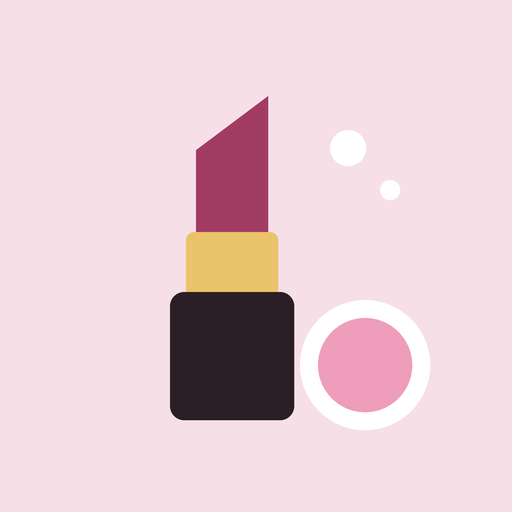
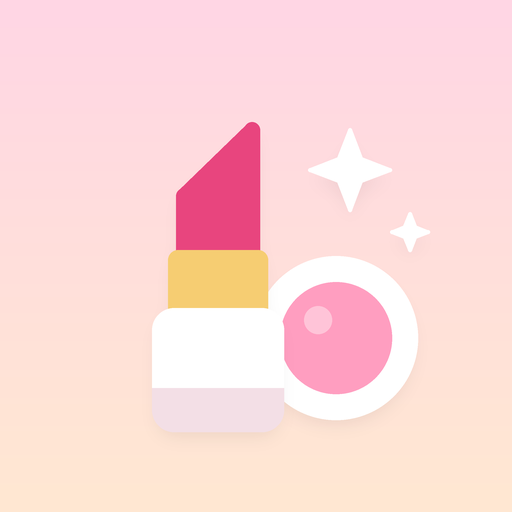
换新图标：桌面图标重画，每个类别配一个小图标
类别图标在 icons.js 里，录入时的类别改成带图标的格子；没照片的卡片显示类别图标。
顺带修掉录入表单里拍照区域会被压扁的问题。

Changed region(s): [[0.2812, 0.1875, 0.8438, 0.875], [0.5938, 0.25, 0.7812, 0.4062], [0.75, 0.4062, 0.8438, 0.5]]

diff --git a/index.html b/index.html
@@ -19,6 +19,7 @@
 <script src="https://www.gstatic.com/firebasejs/10.12.2/firebase-firestore-compat.js"></script>
 <script src="config.js"></script>
 <script src="kind.js"></script>
+<script src="icons.js"></script>
 <style>
 /* 和东阳303同一套骨架：手机单列、底部分页、底部弹出面板。只有这一段颜色和 kind.js 跟另一个 app 不一样。 */
 :root{
@@ -59,6 +60,17 @@ button:focus-visible,input:focus-visible,select:focus-visible,textarea:focus-vis
 .chips{display:flex;gap:6px;flex-wrap:wrap}
 .chip{border:1px solid var(--line);background:var(--surface);border-radius:999px;padding:4px 11px;font-size:13px}
 .chip[aria-pressed="true"]{background:var(--accent);color:var(--on-accent);border-color:var(--accent)}
+.ci{display:inline-grid;place-items:center;width:22px;height:22px;border-radius:50%;background:hsl(var(--h) 75% 91%);color:hsl(var(--h) 48% 40%);flex:none;vertical-align:middle}
+.ci svg{width:72%;height:72%;fill:none;stroke:currentColor;stroke-width:1.6;stroke-linecap:round;stroke-linejoin:round}
+.ci .f{fill:currentColor;fill-opacity:.22}.ci .s{fill:currentColor;stroke:none}
+.ci.lg{width:40px;height:40px}.ci.xl{width:60px;height:60px}
+@media (prefers-color-scheme: dark){:root:not([data-theme="light"]) .ci{background:hsl(var(--h) 30% 26%);color:hsl(var(--h) 65% 80%)}}
+:root[data-theme="dark"] .ci{background:hsl(var(--h) 30% 26%);color:hsl(var(--h) 65% 80%)}
+.chip .ci{width:20px;height:20px;margin:-3px 4px -1px -6px}
+.cats{display:grid;grid-template-columns:repeat(auto-fill,minmax(66px,1fr));gap:4px}
+.chip.cat{border:1.5px solid transparent;background:none;border-radius:12px;padding:6px 2px;display:flex;flex-direction:column;align-items:center;gap:4px;font-size:11px;line-height:1.25;color:var(--fg);text-align:center;overflow-wrap:anywhere}
+.chip.cat .ci{margin:0;width:40px;height:40px}
+.chip.cat[aria-pressed="true"]{border-color:var(--accent);background:var(--accent-soft);color:var(--fg);font-weight:600}
 .strip{display:flex;gap:10px;overflow-x:auto;padding-bottom:4px;scrollbar-width:thin}
 .strip .card{flex:0 0 108px}
 .grid{display:grid;grid-template-columns:repeat(auto-fill,minmax(104px,1fr));gap:10px}
@@ -88,6 +100,7 @@ label.f,.f{display:flex;flex-direction:column;gap:6px;font-size:13px;color:var(-
 .fab{position:fixed;right:18px;bottom:calc(76px + env(safe-area-inset-bottom,0px));z-index:6;background:var(--accent);color:var(--on-accent);border:0;border-radius:999px;padding:12px 18px;font-weight:700;font-size:15px;box-shadow:0 6px 18px rgba(20,30,60,.25)}
 .sheet-bg{position:fixed;inset:0;background:rgba(10,14,25,.45);z-index:10;display:flex;align-items:flex-end;justify-content:center}
 .sheet{background:var(--bg);width:100%;max-width:640px;max-height:92%;overflow-y:auto;border-radius:18px 18px 0 0;padding-inline:16px;padding-block:14px calc(20px + env(safe-area-inset-bottom,0px));display:flex;flex-direction:column;gap:14px}
+.sheet>*{flex-shrink:0}
 .grab{width:40px;height:4px;border-radius:2px;background:var(--line);margin:0 auto}
 .photo-pick{position:relative;aspect-ratio:4/3;max-width:100%;border:1.5px dashed var(--line);border-radius:var(--r);background:var(--surface);display:grid;place-items:center;overflow:hidden;color:var(--muted);text-align:center;padding:0;width:100%}
 .photo-pick img{width:100%;height:100%;object-fit:contain}
@@ -117,6 +130,7 @@ label.f,.f{display:flex;flex-direction:column;gap:6px;font-size:13px;color:var(-
 .cat-head b{font-size:14px}
 .stock{display:grid;grid-template-columns:auto 1fr auto;gap:10px;align-items:center;padding:8px 10px;background:var(--surface);border:1px solid var(--line);border-radius:10px}
 .stock .mini{width:42px;height:42px;border-radius:8px;border:0;padding:0;overflow:hidden;background:var(--surface-2);color:var(--muted);font-size:10px}
+.stock .mini .ci{width:100%;height:100%;border-radius:0}
 .stock .mini img{width:100%;height:100%;object-fit:cover;display:block}
 .stock .txt{min-width:0}
 .stock b{font-size:14px;display:block;white-space:nowrap;overflow:hidden;text-overflow:ellipsis}
@@ -213,6 +227,7 @@ const fromYmd = s => {const [y,m,d]=s.split("-").map(Number);return new Date(y,m
 const dateText = ms => new Date(ms).toLocaleDateString("zh-CN");
 function addMonths(ms,n){const d=new Date(ms);d.setHours(0,0,0,0);d.setMonth(d.getMonth()+n);return d.getTime()}
 
+const catIcon = (c,size="") => {const d=(window.CAT_ICONS||{})[c];return d?`<span class="ci ${size}" style="--h:${d[0]}" aria-hidden="true"><svg viewBox="0 0 24 24">${d[1]}</svg></span>`:""};
 const locById = id => S.locs.find(l=>l.id===id);
 const locName = id => { if(!id) return "待整理"; const l=locById(id); return l?l.name:"待整理"; };
 const locLabel = l => (l.code?l.code+"  ":"")+l.name;
@@ -242,7 +257,7 @@ function cardHTML(i,opts={}){
   const n=daysLeft(i);
   const badge=n!=null&&n<0&&i.status!=="gone"?`<span class="badge late">过期</span>`:!isOpen(i)?`<span class="badge">囤 ×${qtyOf(i)}</span>`:"";
   return `<button class="card${opts.sel?" sel":""}" type="button" data-item="${esc(i.id)}"${opts.selectable?' data-pick="1"':""}>
-    <div class="ph">${i.thumb?`<img src="${i.thumb}" alt="" loading="lazy">`:"无照片"}</div>
+    <div class="ph">${i.thumb?`<img src="${i.thumb}" alt="" loading="lazy">`:(catIcon(i.cat,"xl")||"无照片")}</div>
     <div class="meta"><b>${esc(itemTitle(i))}</b><span>${esc(opts.sub ?? locName(i.loc))}</span></div>
     ${opts.selectable?`<span class="check">${opts.sel?"✓":""}</span>`:badge}
   </button>`;
@@ -325,7 +340,7 @@ function homeHTML(){
   const usedCats=CATS.map(c=>c[0]).filter(c=>items.some(i=>i.cat===c));
   const usedLocs=S.locs.filter(l=>items.some(i=>i.loc===l.id));
   h+=`<section><h2>全部</h2>
-    <div class="chips" data-f="fCat"><button class="chip" type="button" data-v="" aria-pressed="${!S.fCat}">全部</button>${usedCats.map(c=>`<button class="chip" type="button" data-v="${esc(c)}" aria-pressed="${S.fCat===c}">${esc(c)}</button>`).join("")}</div>
+    <div class="chips" data-f="fCat"><button class="chip" type="button" data-v="" aria-pressed="${!S.fCat}">全部</button>${usedCats.map(c=>`<button class="chip" type="button" data-v="${esc(c)}" aria-pressed="${S.fCat===c}">${catIcon(c)}${esc(c)}</button>`).join("")}</div>
     <div class="row"><div class="chips" data-f="fState">${Object.entries(STATES).map(([k,n])=>`<button class="chip" type="button" data-v="${k}" aria-pressed="${S.fState===k}">${n}</button>`).join("")}</div>
     <select id="fLoc" style="width:auto;flex:1;min-width:9em"><option value="">所有位置</option><option value="_none" ${S.fLoc==="_none"?"selected":""}>待整理</option>${usedLocs.map(l=>`<option value="${esc(l.id)}" ${S.fLoc===l.id?"selected":""}>${esc(l.name)}</option>`).join("")}</select></div>
     ${list.length?`<div class="grid">${list.map(i=>cardHTML(i)).join("")}</div>`:`<div class="empty">没有符合条件的</div>`}
@@ -335,7 +350,7 @@ function homeHTML(){
 
 /* ---------- stock：买之前看一眼已经有几个 ---------- */
 function freshRowHTML(i){
-  return `<div class="stock"><button class="mini" type="button" data-item="${esc(i.id)}" aria-label="看详情">${i.thumb?`<img src="${i.thumb}" alt="">`:"无图"}</button>
+  return `<div class="stock"><button class="mini" type="button" data-item="${esc(i.id)}" aria-label="看详情">${i.thumb?`<img src="${i.thumb}" alt="">`:(catIcon(i.cat)||"无图")}</button>
    <div class="txt"><b>${esc(itemTitle(i))}</b><span class="where">${esc([i.shade,locName(i.loc)].filter(Boolean).join(" · "))}</span></div>
    <div class="stepper">${S.ro?"":`<button type="button" data-step="-1" data-id="${esc(i.id)}" aria-label="减一" ${qtyOf(i)<=1?"disabled":""}>−</button>`}<span class="q">${qtyOf(i)}</span>${S.ro?"":`<button type="button" data-step="1" data-id="${esc(i.id)}" aria-label="加一">＋</button><button class="go" type="button" data-act="open-one" data-id="${esc(i.id)}">开封</button>`}</div></div>`}
 // 存货：不拍照、只记名称和数量的（卫生巾、水、洗衣液…），跟着收纳位置走
@@ -368,7 +383,7 @@ function stockTabHTML(){
   K.cats.forEach(g=>{
     const rows=g.items.map(([c])=>{const its=items.filter(i=>i.cat===c);if(!its.length)return "";
       const fresh=its.filter(i=>!isOpen(i));
-      return `<div class="cat-head"><b>${esc(c)}</b><span class="sub">在用 ${its.length-fresh.length} · 囤货 ${fresh.reduce((s,i)=>s+qtyOf(i),0)}</span></div>${fresh.map(freshRowHTML).join("")}`}).join("");
+      return `<div class="cat-head"><b>${catIcon(c)} ${esc(c)}</b><span class="sub">在用 ${its.length-fresh.length} · 囤货 ${fresh.reduce((s,i)=>s+qtyOf(i),0)}</span></div>${fresh.map(freshRowHTML).join("")}`}).join("");
     if(rows)h+=`<section><h2>${esc(g.g)}</h2>${rows}</section>`});
   return h+`</div>`;
 }
@@ -555,7 +570,7 @@ function renderForm(keep){
   openSheet(`<div class="row between"><h2>${edit?"编辑":"录入一"+K.unit}</h2><button class="btn" type="button" data-act="close">关闭</button></div>
    <input type="file" id="file" accept="image/*" hidden>
    <button class="photo-pick" type="button" data-act="pick">${d._preview?`<img src="${d._preview}" alt=""><span class="chg">点击更换照片</span>`:`<span>点这里拍照或选照片<br><span class="sub">${esc(K.photoHint)}</span></span>`}</button>
-   <div class="f">类别 *${K.cats.map(g=>`<div class="row" style="flex-wrap:nowrap;align-items:flex-start"><span style="flex:none;width:2.6em;line-height:28px">${esc(g.g)}</span><div class="chips" data-fm="cat">${g.items.map(([c])=>chip(c,c,d.cat===c)).join("")}</div></div>`).join("")}</div>
+   <div class="f">类别 *${K.cats.map(g=>`<span>${esc(g.g)}</span><div class="cats" data-fm="cat">${g.items.map(([c])=>`<button class="chip cat" type="button" data-v="${esc(c)}" aria-pressed="${d.cat===c}">${catIcon(c)}${esc(c)}</button>`).join("")}</div>`).join("")}</div>
    <div class="f">现在是<div class="seg" data-fm="state">${Object.entries(STATES).map(([k,n])=>`<button type="button" data-v="${k}" aria-pressed="${d.state===k}">${n}${k==="new"?"（囤货）":""}</button>`).join("")}</div></div>
    ${open?"":`<label class="f">一样的有几${K.unit}<input type="number" id="fm-qty" value="${esc(d.qty||1)}" min="1" inputmode="numeric"></label>`}
    ${K.expiry?`${open?`<label class="f">哪天开封的<input type="date" id="fm-opened" value="${ymd(d.opened||Date.now())}"></label>`:""}
@@ -615,7 +630,7 @@ function openItem(id){
   openSheet(`<div class="row between"><h2>${esc(itemTitle(i))}</h2><button class="btn" type="button" data-act="close">关闭</button></div>
    <input type="file" id="file-chg" accept="image/*" hidden>
    ${i.thumb?`<img class="big-photo" id="bigph" src="${i.thumb}" alt="">`:""}
-   <dl class="kv"><dt>类别</dt><dd>${esc(i.cat)}</dd>
+   <dl class="kv"><dt>类别</dt><dd>${catIcon(i.cat)} ${esc(i.cat)}</dd>
    ${i.shade?`<dt>${esc(K.shadeLabel)}</dt><dd>${esc(i.shade)}</dd>`:""}
    ${(i.colors||[]).length?`<dt>颜色</dt><dd>${esc(i.colors.join("、"))}</dd>`:""}
    <dt>状态</dt><dd>${gone?"用完于 "+esc(dateText(i.goneAt||0)):open?"在用"+(i.opened?"，"+esc(dateText(i.opened))+" 开封":""):"没开封，囤着 "+qtyOf(i)+" "+K.unit}</dd>

diff --git a/icons.js b/icons.js
@@ -1,0 +1,104 @@
+// 化妆台的类别小图标：每一类一个色相 + 一小段 SVG（24×24，描边为主，.f 半透明填充，.s 实心）。
+// 自己画的，想换哪个直接改这里；类别名要和程序里的一字不差。
+window.CAT_ICONS = {
+ "卸妆/洁面": [
+  185,
+  "<path class=\"f\" d=\"M9 4h6l1.500 12h-9z\"/><path d=\"M8.500 16h7v4h-7z\"/><circle cx=\"17.500\" cy=\"6\" r=\"1.200\"/><circle cx=\"19.500\" cy=\"9.500\" r=\".8\"/>"
+ ],
+ "化妆水": [
+  200,
+  "<path d=\"M10 3h4v3h-4z\"/><path class=\"f\" d=\"M8.500 6h7a1 1 0 0 1 1 1v12a1.500 1.500 0 0 1-1.500 1.500h-6A1.500 1.500 0 0 1 7.500 19V7a1 1 0 0 1 1-1z\"/><path d=\"M7.500 11h9M7.500 15h9\"/>"
+ ],
+ "精华": [
+  35,
+  "<path class=\"f\" d=\"M8 12h8v7a1.500 1.500 0 0 1-1.500 1.500h-5A1.500 1.500 0 0 1 8 19z\"/><path d=\"M10 9h4v3h-4z\"/><path d=\"M10.500 9V6a1.500 1.500 0 0 1 3 0v3\"/><path class=\"s\" d=\"M12 14.500c1 1.200 1.500 2 1.500 2.700a1.500 1.500 0 0 1-3 0c0-.7.5-1.500 1.500-2.700z\"/>"
+ ],
+ "乳液/面霜": [
+  340,
+  "<path d=\"M6 7h12v3H6z\"/><path class=\"f\" d=\"M7 10h10v7a2 2 0 0 1-2 2H9a2 2 0 0 1-2-2z\"/><path d=\"M10 14.500h4\"/>"
+ ],
+ "眼霜": [
+  280,
+  "<path class=\"f\" d=\"M3 12c2.500-4 5.500-6 9-6s6.500 2 9 6c-2.500 4-5.500 6-9 6s-6.500-2-9-6z\"/><circle cx=\"12\" cy=\"12\" r=\"3\"/><circle class=\"s\" cx=\"12\" cy=\"12\" r=\"1\"/>"
+ ],
+ "防晒": [
+  45,
+  "<circle class=\"f\" cx=\"12\" cy=\"12\" r=\"4\"/><path d=\"M12 3v2M12 19v2M3 12h2M19 12h2M5.600 5.600l1.400 1.400M17 17l1.400 1.400M18.400 5.600L17 7M7 17l-1.400 1.400\"/>"
+ ],
+ "面膜": [
+  165,
+  "<path class=\"f\" d=\"M12 4c4.500 0 7 2.500 7 7s-3 9-7 9-7-4.500-7-9 2.500-7 7-7z\"/><path d=\"M8.500 11h2M13.500 11h2\"/><path d=\"M10 15.500c1.300.8 2.700.8 4 0\"/>"
+ ],
+ "妆前/隔离": [
+  95,
+  "<path class=\"f\" d=\"M8 10h8v9a1.500 1.500 0 0 1-1.500 1.500h-5A1.500 1.500 0 0 1 8 19z\"/><path d=\"M12 10V6.500\"/><path d=\"M9.500 6.500H14l2.500 1.500\"/><path d=\"M10.500 14.500h3\"/>"
+ ],
+ "粉底/气垫": [
+  25,
+  "<circle cx=\"12\" cy=\"13\" r=\"7.500\"/><circle class=\"f\" cx=\"12\" cy=\"13\" r=\"4.500\"/><path d=\"M9.500 4h5\"/>"
+ ],
+ "遮瑕": [
+  15,
+  "<path class=\"f\" d=\"M10 10h4v10h-4z\"/><path d=\"M10.500 3.500h3V10h-3z\"/>"
+ ],
+ "散粉/粉饼": [
+  50,
+  "<path class=\"f\" d=\"M5 12h14v5a2 2 0 0 1-2 2H7a2 2 0 0 1-2-2z\"/><path d=\"M7 12a5 4 0 0 1 10 0\"/><path d=\"M11 6.500l1-2 1 2\"/>"
+ ],
+ "眼影": [
+  290,
+  "<path d=\"M5 6h14a1.500 1.500 0 0 1 1.500 1.500v9A1.500 1.500 0 0 1 19 18H5a1.500 1.500 0 0 1-1.500-1.500v-9A1.500 1.500 0 0 1 5 6z\"/><path class=\"f\" d=\"M6.500 9h4v6h-4z\"/><path class=\"s\" d=\"M13.500 9h4v6h-4z\"/>"
+ ],
+ "眼线": [
+  250,
+  "<path class=\"f\" d=\"M5 19l2-5 9-9 3 3-9 9z\"/><path d=\"M14 7l3 3\"/><path class=\"s\" d=\"M5 19l2-5 3 3z\"/>"
+ ],
+ "睫毛膏": [
+  270,
+  "<path class=\"f\" d=\"M7 11h4.500v9H7z\"/><path d=\"M16 4v10\"/><path d=\"M14 5.500h4M14 8h4M14 10.500h4M14.500 13h3\"/>"
+ ],
+ "眉笔/眉粉": [
+  30,
+  "<path d=\"M4 9.500c3.500-3.500 9.500-4 16-1.500\"/><path class=\"f\" d=\"M5 14.500h10l4 2-4 2H5z\"/><path d=\"M8 14.500v4\"/>"
+ ],
+ "腮红": [
+  350,
+  "<path class=\"f\" d=\"M8.500 11c2-1.500 4.500-1 6 .5s2 4 0 6-5.500 2.500-8 1.500c1-1 1.200-2.200 1-3.700s0-3 1-4.300z\"/><path d=\"M15 10.500L20 4\"/>"
+ ],
+ "高光/修容": [
+  55,
+  "<path class=\"f\" d=\"M11 4l1.900 5.100L18 11l-5.100 1.900L11 18l-1.900-5.100L4 11l5.100-1.900z\"/><path d=\"M18.500 15.500v4M16.500 17.500h4\"/>"
+ ],
+ "口红/唇釉": [
+  345,
+  "<path class=\"s\" d=\"M10 4l4 2v5h-4z\"/><path d=\"M9 11h6v3H9z\"/><path class=\"f\" d=\"M8 14h8v6H8z\"/>"
+ ],
+ "润唇": [
+  5,
+  "<path class=\"f\" d=\"M3 12c3-4 5.500-4 9-2 3.500-2 6-2 9 2-3 5-6 6-9 6s-6-1-9-6z\"/><path d=\"M3 12c3 1 6 1.500 9 1.500s6-.5 9-1.500\"/>"
+ ],
+ "香水": [
+  305,
+  "<path d=\"M10 3h4v3h-4z\"/><path d=\"M11 6v3M13 6v3\"/><path class=\"f\" d=\"M6 9h12v10a1.500 1.500 0 0 1-1.500 1.500h-9A1.500 1.500 0 0 1 6 19z\"/><circle cx=\"12\" cy=\"14.500\" r=\"2.500\"/>"
+ ],
+ "身体护理": [
+  175,
+  "<path class=\"f\" d=\"M4 12h16v5a2 2 0 0 1-2 2H6a2 2 0 0 1-2-2z\"/><circle cx=\"8\" cy=\"7\" r=\"2\"/><circle cx=\"13.500\" cy=\"5\" r=\"1.300\"/><circle cx=\"16.500\" cy=\"8.500\" r=\"1\"/>"
+ ],
+ "头发护理": [
+  120,
+  "<path class=\"f\" d=\"M4 7h16v4H4z\"/><path d=\"M6 11v7M9 11v7M12 11v7M15 11v7M18 11v7\"/>"
+ ],
+ "美甲": [
+  320,
+  "<path d=\"M10 3h4v7h-4z\"/><path class=\"f\" d=\"M7 10h10l1 8a2 2 0 0 1-2 2H8a2 2 0 0 1-2-2z\"/>"
+ ],
+ "工具": [
+  210,
+  "<path class=\"f\" d=\"M9 4.500c2-1.500 4-1.500 6 0V10H9z\"/><path d=\"M9 10h6v2.500H9z\"/><path d=\"M11 12.500h2V21h-2z\"/>"
+ ],
+ "其他": [
+  40,
+  "<path class=\"f\" d=\"M5 8l7-4 7 4v8l-7 4-7-4z\"/><path d=\"M5 8l7 4 7-4M12 12v8\"/>"
+ ]
+};

diff --git a/sw.js b/sw.js
@@ -1,6 +1,6 @@
 // 化妆台: cache the app shell so it opens fast; data comes from Firestore.
-const CACHE = "cos303-v2";
-const SHELL = ["./", "index.html", "config.js", "kind.js", "manifest.webmanifest", "icon-192.png", "icon-512.png", "apple-touch-icon.png"];
+const CACHE = "cos303-v3";
+const SHELL = ["./", "index.html", "config.js", "icons.js", "kind.js", "manifest.webmanifest", "icon-192.png", "icon-512.png", "apple-touch-icon.png"];
 self.addEventListener("install", e => { e.waitUntil(caches.open(CACHE).then(c => c.addAll(SHELL)).then(() => self.skipWaiting())); });
 self.addEventListener("activate", e => { e.waitUntil(caches.keys().then(ks => Promise.all(ks.filter(k => k !== CACHE).map(k => caches.delete(k)))).then(() => self.clients.claim())); });
 self.addEventListener("fetch", e => {
